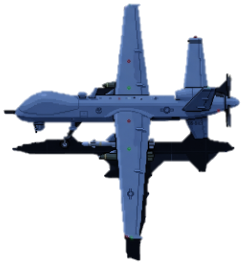
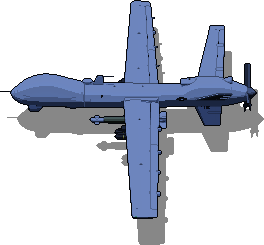
Portada: el TB2 y el MQ-9 en pixel HD, salidos del hangar
El TB2 sustituye al TB3, que se quita, y el MQ-9 deja la foto. Vista E
(casi de lado y desde arriba), pintados a 264 px y vistos a 132: en retina,
1 px por píxel. El MQ-9 armado y sin tren; el TB2 sin la rueda del morro.
Nuevo arte/generar-naves-uas-hd.mjs (naveHD en uas-miniatura-hd.ts).

Claude-Session: https://claude.ai/code/session_01TH5d5Ksq2ebrdSs93TfUVp

diff --git a/src/scripts/uas-miniatura-hd.ts b/src/scripts/uas-miniatura-hd.ts
@@ -18,8 +18,13 @@ import { PALETAS } from "./uas-paletas";
 // 10° se ve como un recorte del visor.
 const FOV_PLANTA = 8, FOV_VISOR = 10;
 
+// Si una pieza se queda fuera: su id es uno de `quitar` o empieza por uno
+// de ellos y un guion («lanzador» quita también «lanzador-rail-0»).
+const fuera = (id: string, quitar: string[]) => quitar.some((q) => id === q || id.startsWith(q + "-"));
+
 // La escena del dron en HD, lista para pintar en pixel a ancho x alto.
-function montar(maqueta: Maqueta, W: number, H: number, FOV: number) {
+// `quitar`: piezas que no se montan (las armas o el tren, en la portada).
+function montar(maqueta: Maqueta, W: number, H: number, FOV: number, quitar: string[] = []) {
   const lienzo = document.createElement("canvas");
   const renderer = new WebGLRenderer({ canvas: lienzo, alpha: true, preserveDrawingBuffer: true });
   renderer.setPixelRatio(1);
@@ -28,7 +33,7 @@ function montar(maqueta: Maqueta, W: number, H: number, FOV: number) {
   const raiz = new Group();
   const mallas: Mesh[] = [];
   for (const [i, p] of maqueta.piezas.entries())
-    for (const g of geometriaDe(p)) {
+    for (const g of fuera(p.id, quitar) ? [] : geometriaDe(p)) {
       const malla = new Mesh(g, materialHD(p.acabado ?? "negro", "c", marcaPieza(i, p.acabado === "junta")));
       malla.castShadow = malla.receiveShadow = true;
       malla.userData.pieza = p.id;
@@ -42,7 +47,10 @@ function montar(maqueta: Maqueta, W: number, H: number, FOV: number) {
   raiz.updateMatrixWorld(true);
   const luz = crearLuzHD(renderer, escena, radio);
   luz.encender(true, "c");
-  const detalles = maqueta.detalles ? montarDetalles(escena, raiz, mallas, maqueta.detalles, radio) : null;
+  const sinQuitadas = <T extends { sobre: string[] }>(l: T[]) => l.filter((d) => !d.sobre.some((id) => fuera(id, quitar)));
+  const detalles = maqueta.detalles
+    ? montarDetalles(escena, raiz, mallas, { calcas: sinQuitadas(maqueta.detalles.calcas), costuras: sinQuitadas(maqueta.detalles.costuras) }, radio)
+    : null;
   detalles?.ver(true, false);
   const pixelado = crearPixelado(renderer);
   pixelado.ponerHD(true, 1, maqueta.desfaseLuz ?? 0);
@@ -52,6 +60,8 @@ function montar(maqueta: Maqueta, W: number, H: number, FOV: number) {
     new Vector3().setFromSpherical(new Spherical(1, ((90 - el) * Math.PI) / 180, (az * Math.PI) / 180));
   // Desplazamiento de la imagen (píxeles) para centrar el dron tal como se ve.
   let desplazar: [number, number] | null = null;
+  // Giro de la cámara sobre su eje (radianes): gira la imagen.
+  let giro = 0;
   const colocar = (vista: [number, number], escala: number) => {
     const d = H / 2 / (escala * Math.tan((FOV * Math.PI) / 360));
     camara.position.copy(direccion(vista)).multiplyScalar(d);
@@ -59,6 +69,7 @@ function montar(maqueta: Maqueta, W: number, H: number, FOV: number) {
     camara.far = d + radio * 2;
     camara.updateProjectionMatrix();
     camara.lookAt(0, 0, 0);
+    camara.rotateZ(giro);
     if (desplazar) camara.setViewOffset(W, H, desplazar[0], desplazar[1], W, H);
     else camara.clearViewOffset();
     camara.updateMatrixWorld();
@@ -76,11 +87,30 @@ function montar(maqueta: Maqueta, W: number, H: number, FOV: number) {
     }
     return { x0, x1, y0, y1 };
   };
+  // Dónde cae un punto de la maqueta en la imagen, en píxeles desde arriba
+  // a la izquierda.
+  const enImagen = (p: Vector3) => {
+    v.copy(p).applyMatrix4(raiz.matrixWorld).project(camara);
+    return [((v.x + 1) * W) / 2, ((1 - v.y) * H) / 2] as [number, number];
+  };
   return {
+    enImagen,
+    mallas,
+    // Gira la cámara sobre su eje para que el morro (+z) apunte en la imagen
+    // hacia `angulo` (grados; 180, a la izquierda; positivo, hacia arriba).
+    morroHacia(vista: [number, number], angulo: number) {
+      giro = 0;
+      desplazar = null;
+      colocar(vista, 1);
+      const [x0, y0] = enImagen(new Vector3(0, 0, -1));
+      const [x1, y1] = enImagen(new Vector3(0, 0, 1));
+      giro = Math.atan2(-(y1 - y0), x1 - x0) - (angulo * Math.PI) / 180;
+    },
     // Medio ancho y medio alto del dron visto desde ahí, en unidades.
     ocupa(vista: [number, number]) {
       camara.position.copy(direccion(vista)).multiplyScalar(radio * 50);
       camara.lookAt(0, 0, 0);
+      camara.rotateZ(giro);
       camara.updateMatrixWorld();
       let mx = 0, my = 0;
       for (const m of mallas) {
@@ -161,4 +191,31 @@ export function plantaHD(maqueta: Maqueta, vista: [number, number], pxPorMetro: 
   const { dia } = m.pintar(vista, escala);
   m.soltar();
   return { png: dia, ancho, alto };
+}
+
+// La nave del hero de la portada (src/data/aeronaves.ts): el dron en vuelo
+// desde la vista `vista`, con el morro hacia `morro` (grados; 180, a la
+// izquierda, como las demás naves) y llenando un cuadrado de `lado` px a
+// 1 px por píxel. Sin la sombra ni el recorte, que los pone
+// arte/generar-naves-uas-hd.mjs. Devuelve también dónde caen las puntas de
+// las alas (las luces de posición), en píxeles: `der` la derecha (+x).
+export function naveHD(maqueta: Maqueta, vista: [number, number], morro: number, lado: number, quitar: string[] = []) {
+  const m = montar(maqueta, lado, lado, FOV_VISOR, quitar);
+  m.morroHacia(vista, morro);
+  const { dia } = m.pintar(vista, m.llenar(vista, 2));
+  // Las puntas: los vértices del ala más a cada lado.
+  const ala = m.mallas.filter((x) => x.userData.pieza === "ala");
+  const p = new Vector3();
+  let der: Vector3 | null = null, izq: Vector3 | null = null;
+  for (const malla of ala) {
+    const pos = malla.geometry.getAttribute("position");
+    for (let i = 0; i < pos.count; i++) {
+      p.fromBufferAttribute(pos, i).applyMatrix4(malla.matrix);
+      if (!der || p.x > der.x) der = p.clone();
+      if (!izq || p.x < izq.x) izq = p.clone();
+    }
+  }
+  const luces = der && izq ? { der: m.enImagen(der), izq: m.enImagen(izq) } : null;
+  m.soltar();
+  return { png: dia, luces };
 }

diff --git a/src/data/aeronaves.ts b/src/data/aeronaves.ts
@@ -7,15 +7,18 @@
 // botón .hero-cambio, que trae otro al azar (salen todos antes de repetir).
 // Lo lleva initObjeto() en Head.astro; sin JS se ve el primero de la lista.
 //
-// Dibujos, en public/zodk-<id>[-noche].{svg,png}: todas son fotos PNG salvo
-// el Sentinel-2, que es pixel art de arte/generar-aeronaves.py. La versión de
-// noche de las fotos (a la luz de la luna) sale de arte/generar-naves-noche.py.
-// Añadir una nave = su foto en public/, la de noche con ese script y una
-// entrada aquí.
+// Dibujos, en public/zodk-<id>[-noche].{svg,png}: fotos PNG; el Sentinel-2,
+// pixel art de arte/generar-aeronaves.py; y los drones que están en el hangar
+// en pixel HD (el TB2 y el MQ-9), pixel HD de arte/generar-naves-uas-hd.mjs,
+// que da también su `ratio` y sus `luces`. La versión de noche (a la luz de
+// la luna) sale de arte/generar-naves-noche.py. Añadir una nave = su dibujo
+// en public/, la de noche con ese script y una entrada aquí.
 //
 // Luces de posición (solo de noche): puntos fijos encima de la nave, en % de
 // su imagen (x, y). Morro a la izquierda y vista desde arriba, así que el ala
-// derecha es la de arriba (verde) y la izquierda la de abajo (roja). Sin
+// derecha es la de arriba (verde) y la izquierda la de abajo (roja). En el
+// pixel HD van donde las puntas pintadas de la maqueta, que salen al revés
+// (las maquetas del hangar están en espejo: la derecha queda abajo). Sin
 // `luces`, la nave va a oscuras (el Shahed-136, como en la realidad; el
 // satélite no lleva).
 //
@@ -43,6 +46,7 @@ export type Aeronave = {
     | "fijo-arriba"
     | "fijo-arriba-der"; // trayectoria (clases .hero-craft--* de portada.css)
   escala?: number; // multiplica el ancho en el hero (1 = normal). Solo "sweep".
+  ancho?: number; // pixel HD: ancho en pantalla (px). El PNG va al doble: en retina, 1 px por píxel
   pais: string; // código de src/data/banderas.json: la chapa en pixel art junto a "País"
   luces?: {
     der: [number, number];
@@ -53,24 +57,25 @@ export type Aeronave = {
 
 export const AERONAVES: Aeronave[] = [
   {
-    id: "dron",
-    nombre: "Bayraktar TB3",
-    clase: "Dron armado MALE embarcado",
-    sprite: "/zodk-dron.png",
-    spriteNoche: "/zodk-dron-noche.png",
-    ratio: "430 / 450",
+    id: "tb2",
+    nombre: "Bayraktar TB2",
+    clase: "Dron armado MALE",
+    sprite: "/zodk-tb2.png",
+    spriteNoche: "/zodk-tb2-noche.png",
+    ratio: "264 / 224",
+    ancho: 132,
     vuelo: "sweep",
     pais: "TR",
-    luces: { der: [52, 2], izq: [52, 97] },
+    luces: { der: [53, 88], izq: [52, 1] },
     specs: [
       ["Fabricante", "Baykar"],
       ["País", "Turquía"],
-      ["Primer vuelo", "2023"],
-      ["Envergadura", "14 m"],
-      ["MTOW", "1.450 kg"],
-      ["Techo", "~7.600 m"],
-      ["Autonomía", "más de 24 h"],
-      ["Carga", "280 kg"],
+      ["Primer vuelo", "2014"],
+      ["Envergadura", "12 m"],
+      ["MTOW", "700 kg"],
+      ["Techo", "~6.100 m"],
+      ["Autonomía", "más de 18 h"],
+      ["Carga", "150 kg"],
     ],
   },
   {
@@ -99,10 +104,11 @@ export const AERONAVES: Aeronave[] = [
     clase: "Dron armado MALE",
     sprite: "/zodk-mq9.png",
     spriteNoche: "/zodk-mq9-noche.png",
-    ratio: "244 / 265",
+    ratio: "264 / 245",
+    ancho: 132,
     vuelo: "fijo-centro",
     pais: "US",
-    luces: { der: [54, 2], izq: [53, 89] },
+    luces: { der: [59, 89], izq: [57, 1] },
     specs: [
       ["Fabricante", "General Atomics"],
       ["País", "EE. UU."],

diff --git a/src/styles/portada.css b/src/styles/portada.css
@@ -293,8 +293,10 @@ html.dark .hero-mgrs.fijada {
    --fijo...). Datos en src/data/aeronaves.ts. Al pasar el ratón se para toda
    la portada y sale la ficha. Solo con ratón.
 
-   Las fotos (.png) van suavizadas; el único pixel art (el Sentinel-2, .svg)
-   lleva --pixelado. Una foto animada en "pixelated" parpadea, porque se
+   Las fotos (.png) van suavizadas; el pixel art del Sentinel-2 (.svg)
+   lleva --pixelado. Los drones en pixel HD (TB2, MQ-9) van suavizados como
+   las fotos y con su ancho en px (`ancho` en aeronaves.ts, en línea), que
+   manda sobre los de abajo. Una foto animada en "pixelated" parpadea, porque se
    vuelve a muestrear en cada fotograma de un desplazamiento que no cae en
    un píxel entero.
    --naves-k: tamaño de todas las naves respecto a sus medidas de abajo. */
@@ -344,8 +346,7 @@ html.dark .craft-luz:not([hidden]) { display: block; }
 }
 
 /* Trayectoria "sweep" (dron): barrido diagonal amplio que baja cruzando el
-   título y vuelve a subir (alternate). La foto del TB3 es casi cuadrada y
-   con detalle, así que se le da bastante ancho para que se lea. */
+   título y vuelve a subir (alternate). */
 .hero-craft--sweep {
   left: 44%;
   top: 24%;
@@ -411,8 +412,6 @@ html.dark .craft-luz:not([hidden]) { display: block; }
 .hero-craft--fijo-centro {
   left: 43%;
   top: 62%;
-  /* el sprite del MQ-9 trae bastante margen transparente (dron + sombra), así
-     que se le da más ancho de caja que al RQ-4 para que el dron se vea igual. */
   width: calc(clamp(78px, 7.4vw, 116px) * var(--naves-k));
 }
 .hero-craft--fijo-arriba {

diff --git a/arte/generar-naves-noche.py b/arte/generar-naves-noche.py
@@ -11,13 +11,13 @@ tamaño fijo en pantalla, porque las fotos se ven muy reducidas (una de 857 px
 se muestra a ~210 px) y un punto dibujado en la foto quedaría de menos de 1 px.
 Sus posiciones están en src/data/aeronaves.ts (campo `luces`).
 
-    python3 generar-naves-noche.py
+    python3 generar-naves-noche.py [id…]      (sin id, todas las de NAVES)
 """
 import os
 
 from PIL import Image
 
-NAVES = ["dron", "rq4", "mq9", "e2-hawkeye", "u2", "sr71", "shahed136"]
+NAVES = ["tb2", "rq4", "mq9", "e2-hawkeye", "u2", "sr71", "shahed136"]
 # Elegido con pruebas sobre el planeta de noche: más oscuro, las naves grises
 # se camuflaban contra el mar azul y casi desaparecían.
 TINTE = (0.60, 0.72, 1.0)          # luz de luna
@@ -53,6 +53,7 @@ def procesa(nid, **kw):
 
 
 if __name__ == "__main__":
-    for nid in NAVES:
+    import sys
+    for nid in sys.argv[1:] or NAVES:
         procesa(nid).save(os.path.join(PUB, f"zodk-{nid}-noche.png"), optimize=True)
         print("->", f"zodk-{nid}-noche.png")

diff --git a/docs/uas-hd.md b/docs/uas-hd.md
@@ -181,8 +181,28 @@ marcha: un Chrome sin ventana las pinta con el mismo motor del visor
 `arte/generar-uas-miniaturas.mjs` se salta los drones con `hd`. Pasar un dron
 al pixel HD incluye regenerarlas.
 
+**Las naves del hero de la portada** (`src/data/aeronaves.ts`) también salen
+del pixel HD cuando el dron está en el hangar (el TB2 y el MQ-9, desde el
+2-oct-2026): `node arte/generar-naves-uas-hd.mjs [id]`, con `npm run dev` en
+marcha, pinta `public/zodk-<id>.png` (dron en vuelo, morro a la izquierda,
+sombra debajo) y da su `ratio` y sus `luces`; la de noche, con
+`python3 arte/generar-naves-noche.py <id>` (el de `/usr/bin`, que tiene
+Pillow). Vista E (90°, 28°: casi de lado y desde arriba), elegida por el
+usuario. Se pintan a 260 px y se ven a la mitad (`ancho` 132): en retina,
+1 px por píxel. **No pintarlas al tamaño que ocupan en pantalla**: a 1 px por
+píxel y 60 px de ancho no caben el volumen ni las armas, y el dron queda en
+una cruz gris (primer intento, descartado). En vuelo: el MQ-9 con el tren
+recogido y armado; el TB2 recoge solo la rueda del morro.
+
 ## Dónde estamos
 
+- **2-oct-2026, naves de la portada en pixel HD**: el TB2 (sustituye al TB3,
+  que se quitó) y el MQ-9, con `arte/generar-naves-uas-hd.mjs` (ver arriba).
+  Pendiente de mirar: las maquetas del hangar están en espejo respecto al
+  avión de verdad (ejes x derecha, y arriba, z morro en un Three.js que es de
+  mano derecha): con el morro a la izquierda y desde arriba, la punta verde
+  (derecha) sale abajo. Afecta a todo el visor. La maqueta del TB2 dice que
+  el tren no se recoge, pero la rueda del morro sí se recoge.
 - **2-oct-2026, TB2 retomado y cerrado otra vez**: toma de aire en el centro
   del lomo, ala en su sitio, cuerpo sin las líneas de las uniones, tarjeta y
   planta regeneradas, y el zoom de todos los visores (hacia el cursor).
